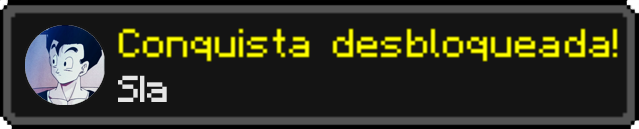
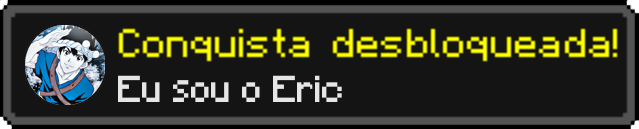
Version 2.0.9.4 - a!mine Remake

Changed region(s): [[0.0297, 0.186, 0.5352, 0.8372]]

diff --git a/commands/ps/minecraft.py b/commands/ps/minecraft.py
@@ -1,0 +1,69 @@
+import discord
+from discord.ext import commands
+import requests
+import datetime
+from PIL import Image, ImageDraw, ImageFont, ImageOps, ImageFilter, ImageChops
+from io import BytesIO
+import json
+
+c = open("../config.json")
+config = json.load(c)
+
+l = open("../link.json")
+link = json.load(l)
+
+intents = discord.Intents.default()
+intents.members = True
+
+prefix = config["prefix"]
+bot = commands.Bot(command_prefix = prefix, intents=intents,  case_insensitive = True)
+
+def cooldown(rate, per_sec=0, per_min=0, per_hour=0, type=commands.BucketType.default):
+    return commands.cooldown(rate, per_sec + 60 * per_min + 3600 * per_hour, type)
+
+now = datetime.datetime.now()
+now = now.strftime("%d/%m/%Y - %H:%M:%S")
+
+
+class cog_minecraft(commands.Cog):
+    def __init__(self, bot):
+        self.bot = bot
+
+    @commands.command(name = "minecraft", aliases = ["mine"])
+    @cooldown(1, 5, type = commands.BucketType.user)
+    async def mine(self, ctx, *, message = None):
+        try:
+            if message == None:
+                await ctx.reply(f"『❌』 {ctx.author.mention}, insira um texto.")
+                return
+            userAvatar = ctx.author.display_avatar.url
+            url = requests.get(userAvatar)
+            avatar = Image.open(BytesIO(url.content))
+            avatar = avatar.resize((80,80))
+            bigavatar = (avatar.size[0] * 3, avatar.size[1] * 3)
+            mascara = Image.new('L', bigavatar, 0)
+            recortar = ImageDraw.Draw(mascara)
+            recortar.ellipse((0, 0) + bigavatar, fill=255)
+            mascara = mascara.resize(avatar.size, Image.ANTIALIAS)
+            avatar.putalpha(mascara)
+            saida = ImageOps.fit(avatar, mascara.size, centering=(0.5, 0.5))
+            saida.putalpha(mascara)
+            saida.save('img_avatar.png')
+            img = Image.open("img_conquista.png")
+            fonte = ImageFont.truetype("font_Minecraft.ttf", 35)
+            escrever = ImageDraw.Draw(img)
+            escrever.text(xy = (118,75), text = f"{message}", fill = (230, 230, 230), font = fonte)
+            img.paste(avatar, (25, 25), avatar)
+            img.save("img_conquistamine.png")
+            mineEmbed = discord.Embed(color = discord.Color.from_rgb(255, 100, 20))
+            mineEmbed.set_image(url = "attachment://img_conquistamine.png")
+            mineEmbed.set_author(name = f"『🧊』Minecraft:", icon_url = self.bot.user.display_avatar.url)
+            mineEmbed.set_footer(text = f"Pedido por {ctx.author.name}", icon_url = ctx.author.display_avatar.url)
+            await ctx.send(embed = mineEmbed, file=discord.File('img_conquistamine.png'))
+        except Exception as e:
+            print(e)
+
+    
+async def setup(bot):
+    print("cog_minecraft.py loaded")
+    await bot.add_cog(cog_minecraft(bot))

diff --git a/commands/ps/cog_ps.py b/commands/ps/cog_ps.py
@@ -67,38 +67,6 @@ class cog_ps(commands.Cog):
         embed.set_thumbnail(url="https://i.imgur.com/A9X6IKH.gif")
         await ctx.reply(embed=embed)
 
-    @commands.command(name="mine")
-    @cooldown(1,5, type = commands.BucketType.user)
-    async def mine(self, ctx, *, mensagem=None):
-        userAvatar = ctx.author.avatar_url
-        url = requests.get(userAvatar)
-        if mensagem == None:
-            return await ctx.send(f"❌| {ctx.author.mention}, insira um texto.")
-        await open_account(ctx.author)
-        users = await get_bank_data()
-        earnings = 7
-        users[str(ctx.author.id)]["wallet"] += earnings
-        with open("mainbank.json","w") as f:
-            json.dump(users,f)
-        avatar = Image.open(BytesIO(url.content))
-        avatar = avatar.resize((80,80))
-        bigavatar = (avatar.size[0] * 3, avatar.size[1] * 3)
-        mascara = Image.new('L', bigavatar, 0)
-        recortar = ImageDraw.Draw(mascara)
-        recortar.ellipse((0, 0) + bigavatar, fill=255)
-        mascara = mascara.resize(avatar.size, Image.ANTIALIAS)
-        avatar.putalpha(mascara)
-        saida = ImageOps.fit(avatar, mascara.size, centering=(0.5, 0.5))
-        saida.putalpha(mascara)
-        saida.save('img_avatar.png')
-        img = Image.open("img_conquista.png")
-        fonte = ImageFont.truetype("font_Minecraft.ttf", 35)
-        escrever = ImageDraw.Draw(img)
-        escrever.text(xy=(118,75), text=f"{mensagem}", fill=(230, 230, 230), font=fonte)
-        img.paste(avatar, (25, 25), avatar)
-        img.save('img_conquistamine.png')
-        await ctx.send(content = f"**{ctx.author.mention} <:anicoin:919293624850727022>| +{earnings}**", file=discord.File('img_conquistamine.png'))
-
     @commands.command(name="stonks")
     @cooldown(1,5, type = commands.BucketType.user)
     async def stonks(self, ctx, *, mensagem=None):
